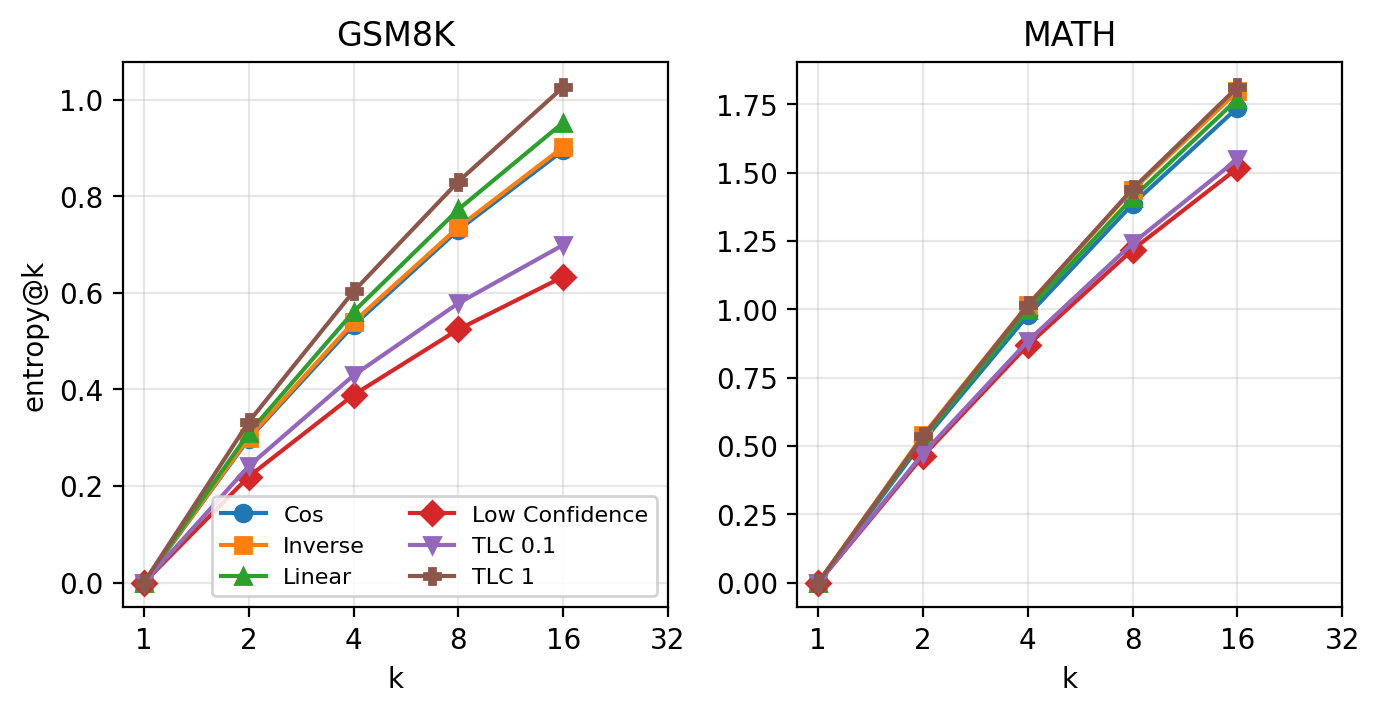
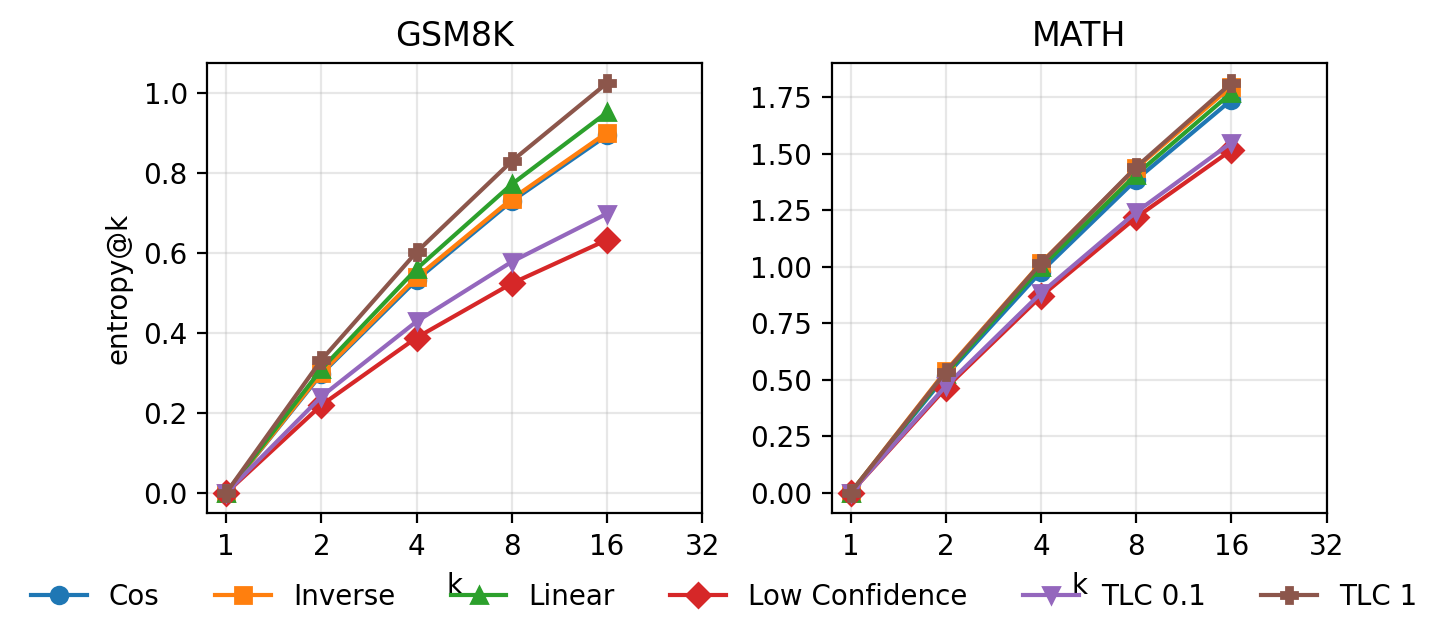
fixed graphs again

diff --git a/analysis.py b/analysis.py
@@ -14,6 +14,7 @@ from matplotlib.ticker import ScalarFormatter, NullFormatter
 K = [1, 2, 4, 8, 16, 32]
 N = 32
 
+
 def stitch_executed_results():
     records = {}
     for path in glob.glob("results/execution_results_*.json"):
@@ -72,7 +73,7 @@ def graph_entropy_k_data(per_seed, ):
     avg = per_seed.groupby(['dataset', 'method']).mean()
     datasets = avg.index.get_level_values("dataset").unique()
 
-    fig, ax = plt.subplots(1, len(datasets), figsize=(7, 4), layout="constrained")
+    fig, ax = plt.subplots(1, 2, figsize=(6.5, 3.2), layout="constrained")
     for i, dataset in enumerate(datasets):
         markers = cycle(markers_)
         for method in avg.loc[dataset].index:
@@ -85,22 +86,22 @@ def graph_entropy_k_data(per_seed, ):
             ax[i].xaxis.set_major_formatter(ScalarFormatter())
             ax[i].xaxis.set_minor_formatter(NullFormatter())    
             ax[i].set_title(dataset.upper())
-            ax[i].set_box_aspect(1)
+
             ax[i].grid(True, alpha=0.3)
             ax[i].set_axisbelow(True)
 
-    ax[0].legend(loc="best", fontsize=8, framealpha=0.85, ncol=2)
-
+    h, l = ax[0].get_legend_handles_labels()
+    fig.legend(h, l, loc="outside lower center", ncol=6, frameon=False)
     ax[0].set_ylabel("entropy@k")
     fig.tight_layout()
-    fig.savefig("entropy_at_k.png", dpi=200, bbox_inches="tight")
+    fig.savefig("entropy_at_k.png", dpi=300, bbox_inches="tight")
     plt.close(fig)
 
 def graph_pass_k_data(per_seed, per_execution):
     avg = per_seed.groupby(['dataset', 'method']).mean()
     datasets = list(avg.index.get_level_values("dataset").unique()) + list(per_execution.index.get_level_values("dataset").unique())
 
-    fig, ax = plt.subplots(1, len(datasets), figsize=(4 * len(datasets), 4.5), layout="constrained")
+    fig, ax = plt.subplots(1, 4, figsize=(14, 3.6), layout="constrained")
     for i, dataset in enumerate(datasets):
         markers = cycle(markers_)
         src = avg if dataset in avg.index.get_level_values("dataset") else per_execution
@@ -117,14 +118,14 @@ def graph_pass_k_data(per_seed, per_execution):
             ax[i].xaxis.set_major_formatter(ScalarFormatter())
             ax[i].xaxis.set_minor_formatter(NullFormatter())
             ax[i].set_title(dataset.upper())
-            ax[i].set_box_aspect(1)
             ax[i].grid(True, alpha=0.3)
             ax[i].set_axisbelow(True)
 
-    ax[0].legend(loc="best", fontsize=8, framealpha=0.85, ncol=2)
+    h, l = ax[0].get_legend_handles_labels()
+    fig.legend(h, l, loc="outside lower center", ncol=6, frameon=False)
     ax[0].set_ylabel("pass@k")
     fig.tight_layout()
-    fig.savefig("pass_at_k.png", dpi=200, bbox_inches="tight")
+    fig.savefig("pass_at_k.png", dpi=300, bbox_inches="tight")
     plt.close(fig)
 
 
